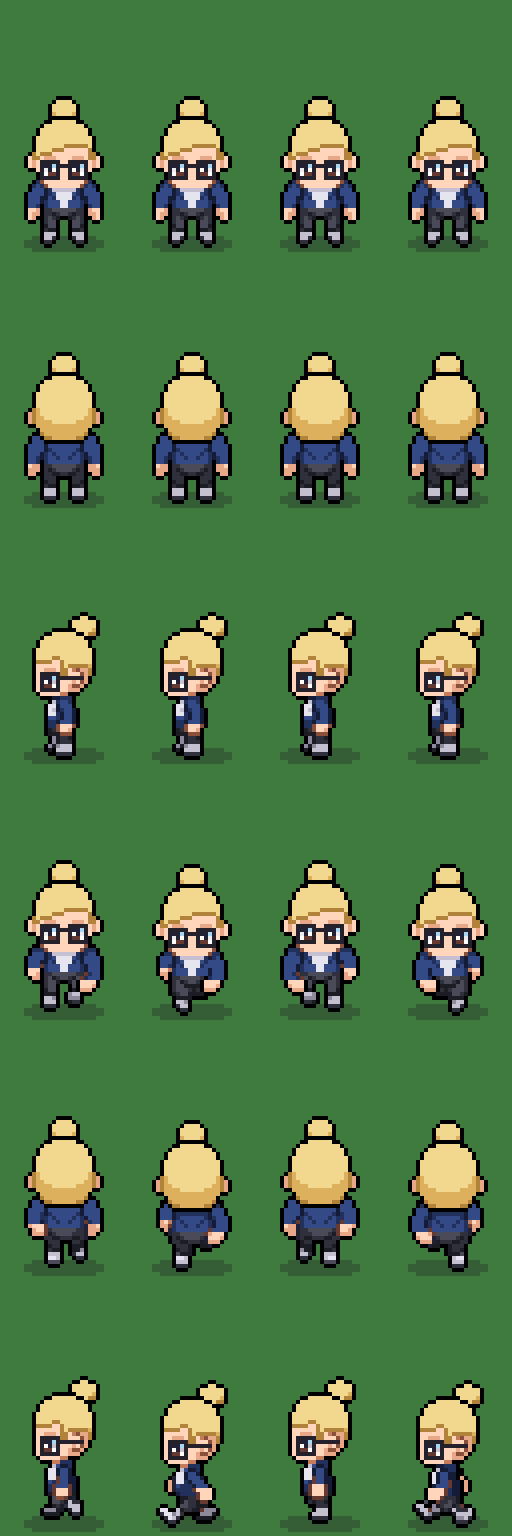
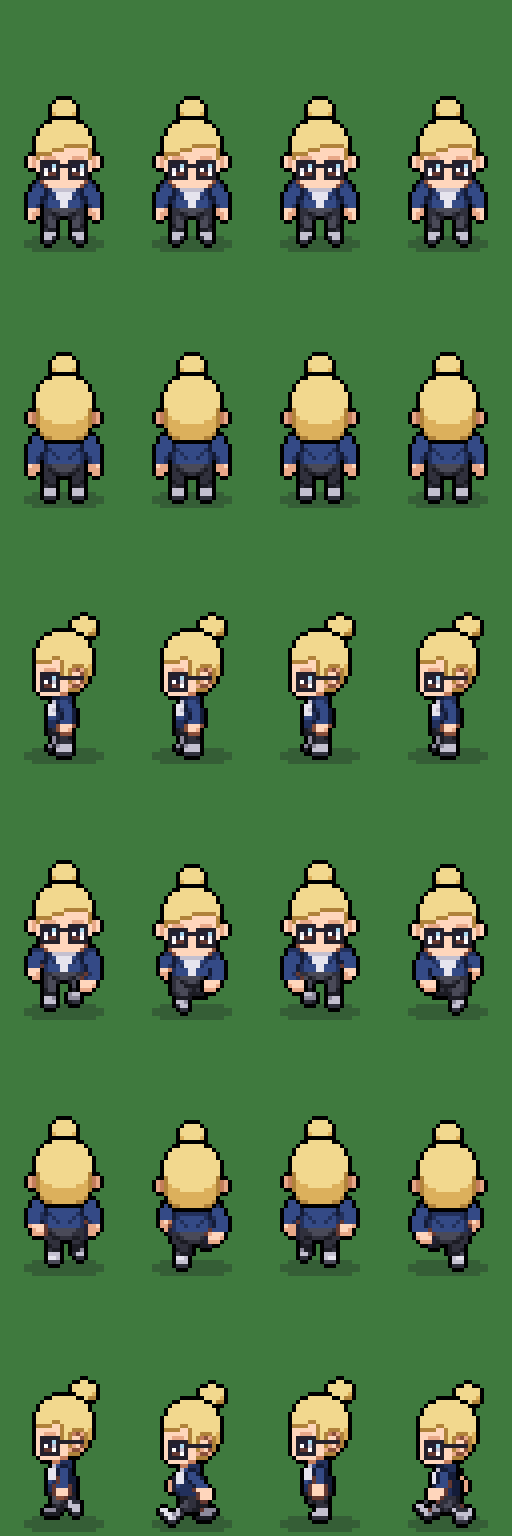
Hair: uncover only the exact ear pixels
isEar() now matches the reference ear pixel-for-pixel (front/back cols 6-8 /
23-25 rows 38-42; side ring cols 18-20 rows 39-43). Hair fills everything
around it, so there's no bare skin next to the ear.

Claude-Session: https://claude.ai/code/session_01AuTfW4RY5hqwpF1mFtvoZZ

diff --git a/scripts/gen-placeholders.ts b/scripts/gen-placeholders.ts
@@ -534,11 +534,19 @@ function hairDetail(f: Frame, r: Region) {
   }
 }
 
-/** Ear pixels (measured from the reference head) — hair never covers them. */
+/**
+ * Exactly the ear pixels of the reference head — hair leaves only these uncovered.
+ *   front/back: the bump outside the oval + its inner shade line → cols 6–8 / 23–25, rows 38–42
+ *   side:       the ear ring → cols 18–20, rows 39–43 (+ its lower-left corner)
+ */
 function isEar(f: Frame, x: number, y: number): boolean {
   const h = f.p.head;
-  if (f.dir === "left") return x >= h.x + 9 && x <= h.x + 13 && y >= h.y + 10 && y <= h.y + 15;
-  return (x <= h.x + 1 || x >= h.x + h.w - 2) && y >= h.y + 9 && y <= h.y + 12;
+  const ry = y - h.y; // row relative to the head top (29)
+  if (f.dir === "left") {
+    const rx = x - h.x; // col relative to the head left (8)
+    return (rx >= 10 && rx <= 12 && ry >= 10 && ry <= 14) || (rx === 9 && ry === 14);
+  }
+  return (x <= h.x + 2 || x >= h.x + h.w - 3) && ry >= 9 && ry <= 13;
 }
 
 function hairCap(f: Frame, sideLen: number) {
